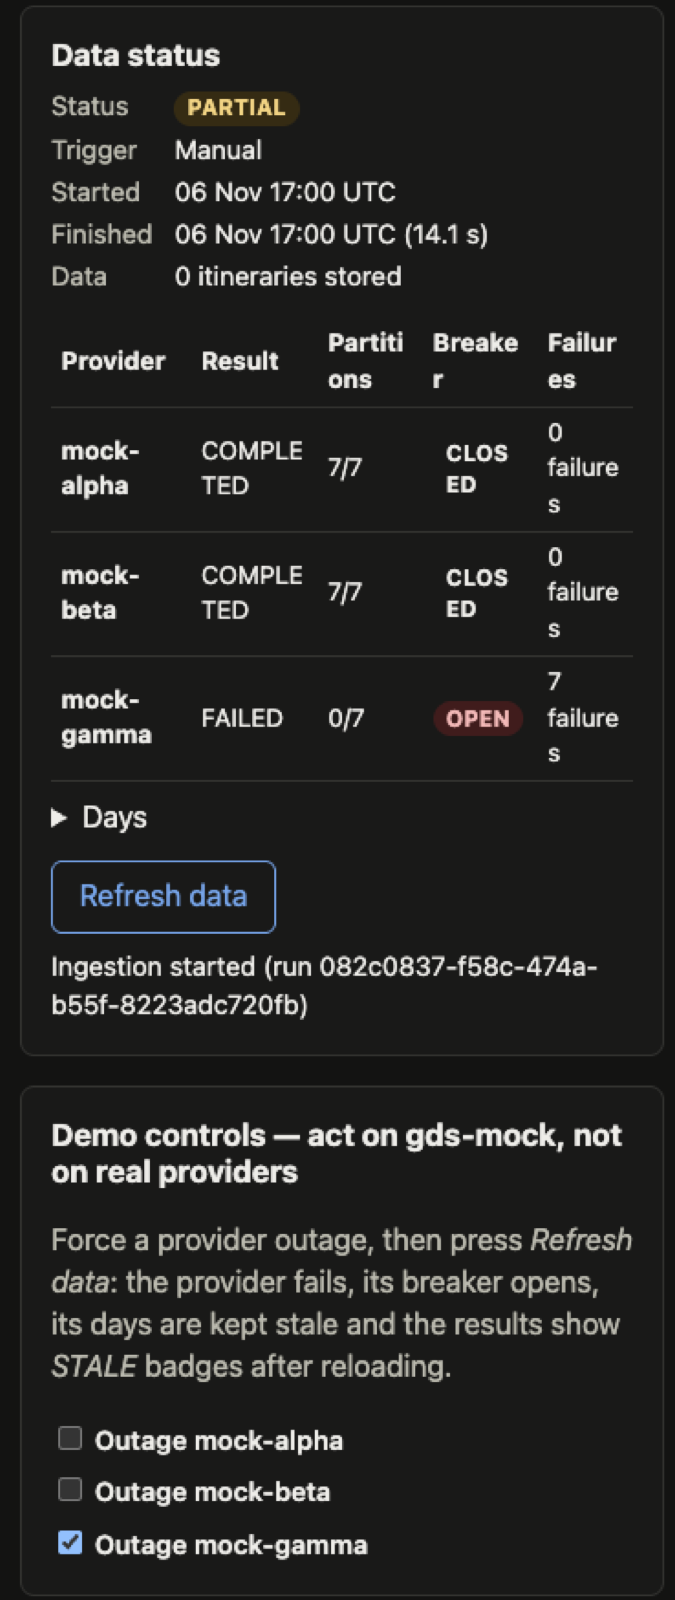
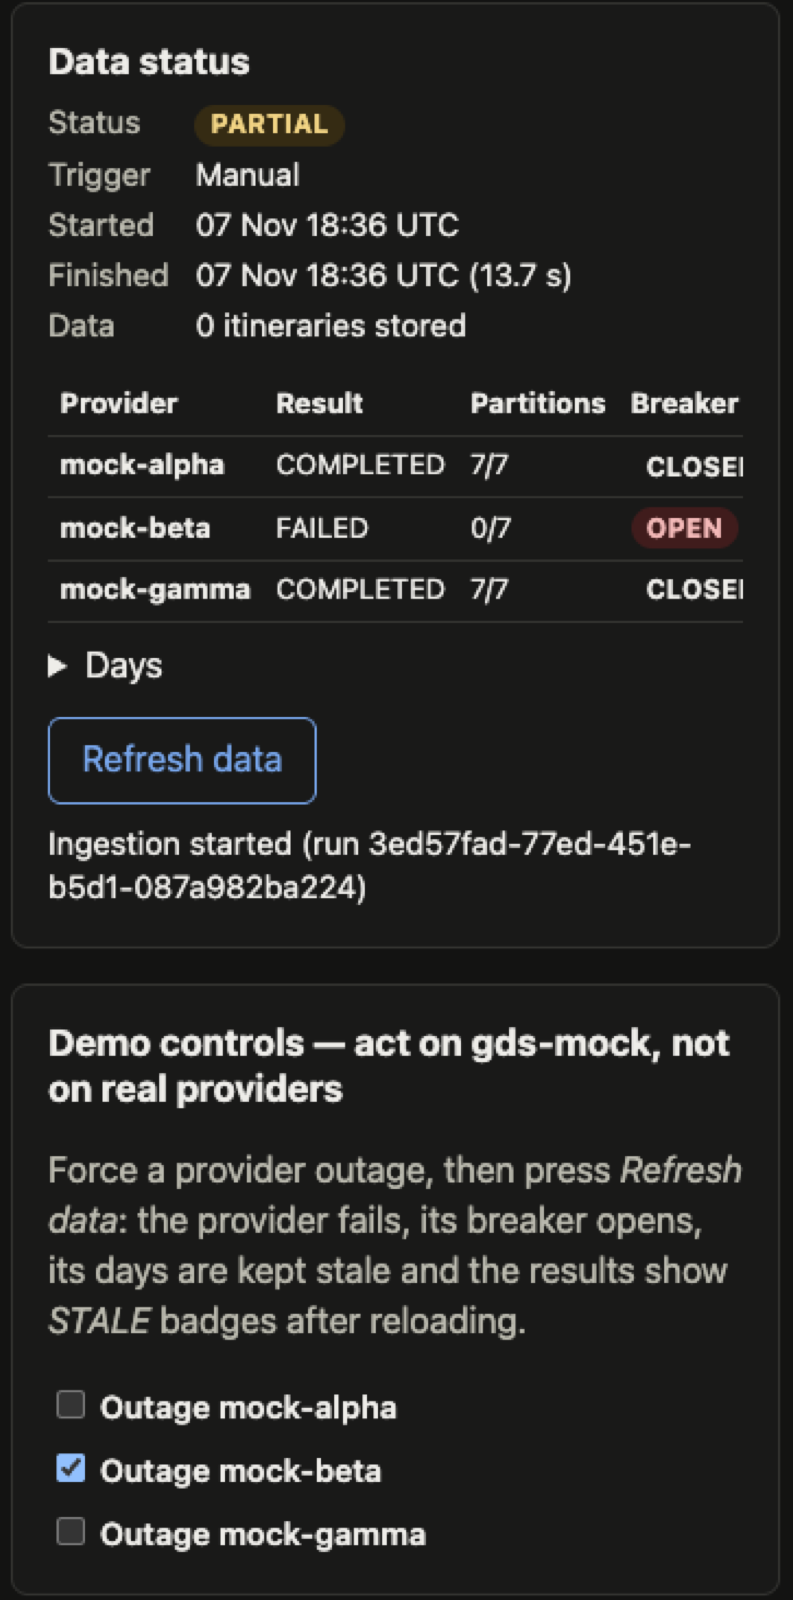
docs: retaken screenshots (Beta outage), base image download note, CI pointer in docs/ai/011

Changed region(s): [[0.0622, 0.0, 0.9333, 1.0], [0.6222, 0.4375, 0.7778, 0.4688], [0.4978, 0.4375, 0.5289, 0.4688]]

diff --git a/README.md b/README.md
@@ -34,6 +34,9 @@ first ingestion — scheduled 10 s after start-up, ≈ 94,500 itineraries from t
 latency and random errors — is `COMPLETED` **21 s** after that: **about a minute in all**. Then it runs every 15 min;
 later starts reuse the images and the data (named volume).
 
+The very first run also downloads the base images (Maven, Node, Temurin, nginx, PostgreSQL, Redis), which can add a
+few minutes depending on the connection.
+
 | URL | What |
 |---|---|
 | <http://localhost:3000> | **Dashboard** — search, filter, "Load more", data status, *Refresh data*, demo outage controls |
@@ -41,7 +44,7 @@ later starts reuse the images and the data (named volume).
 | <http://localhost:8080/api/v1/itineraries> | Search API (also through the dashboard's nginx at `localhost:3000/api/…`) |
 | <http://localhost:8081/admin/providers> | gds-mock: the three providers' chaos settings and outage switches |
 
-![Dashboard: search panel, data status, "New data available" banner, price and provider charts, results with freshness badges](docs/images/dashboard.png)
+![Dashboard for MAD → JFK: search panel and data status of the latest run on the left; price distribution, results by selected provider and the cheapest itineraries with freshness badges on the right](docs/images/dashboard.png)
 
 **Try it:** search from the dashboard (the filters live in the URL, so a search can be shared), page with "Load more",
 watch the data status panel, press *Refresh data* to run an ingestion now, and in *Demo controls* take Mock-Beta down

diff --git a/docs/frontend.md b/docs/frontend.md
@@ -6,8 +6,8 @@ small React + TypeScript single-page app in [`frontend/`](../frontend), built wi
 [ADR-0023](adr/0023-real-time-by-polling.md), [ADR-0024](adr/0024-contract-generated-client-and-frontend-toolchain.md)).
 This page is written for a backend developer: it maps each frontend idea to something familiar.
 
-![The dashboard for MAD → JFK: search panel and data status on the left; "New data available" banner, price
-distribution, results by selected provider and the cheapest itineraries with STALE badges on the right](images/dashboard.png)
+![The dashboard for MAD → JFK: search panel and data status of the latest run on the left; price distribution,
+results by selected provider and the cheapest itineraries with their freshness badges on the right](images/dashboard.png)
 
 ## Run it
 

diff --git a/docs/ai/011-final-review.md b/docs/ai/011-final-review.md
@@ -185,4 +185,8 @@ branches; no frontend change in this PR); `scripts/check-mermaid.sh`: 45 diagram
 (guard-git 39, classify-paths 18) pass; link check over every tracked Markdown file: no broken path or anchor;
 external links answer `200`. `SearchPerformanceIT` (`-Pslow-tests`) green in 2 min 42 s.
 
-CI on the pushed commit: recorded after the push.
+**CI:** the results for the pushed commit are visible in PR 15's checks. They are not recorded here by a follow-up
+commit, which would trigger another run to record (the author's decision for this last PR).
+
+Screenshots `docs/images/dashboard.png` and `dashboard-outage.png` were retaken by the author after the
+providers-table fix, with a Mock-Beta outage (matching the smoke test and spec 006).
